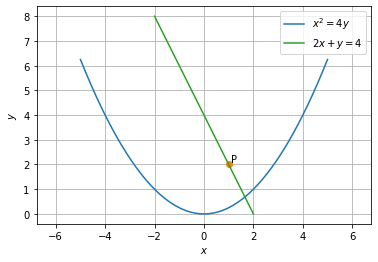
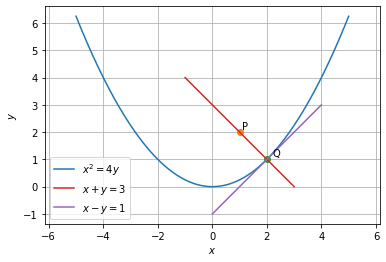
Add files via upload

diff --git a/ASSIGNMENT4/assignment4.py b/ASSIGNMENT4/assignment4.py
@@ -7,159 +7,30 @@ Original file is located at
     https://colab.research.google.com/drive/1ttz5ucjuVuoqsV9ZW3DMig3gA4-C8HLZ
 """
 
-# -*- coding: utf-8 -*-
-"""parabola.ipynb
-Automatically generated by Colaboratory.
-Original file is located at
-    https://colab.research.google.com/drive/1Rs-sQcmWrZ5ukWAQpfxal4mnMS3OC21p
-"""
-
-
-#Functions related to line
 import numpy as np
-
-
-def dir_vec(A,B):
-  return B-A
-
-def norm_vec(A,B):
-  return np.matmul(omat, dir_vec(A,B))
-
-#Generate line points
-def line_gen(A,B):
-  len =10
-  x_AB = np.zeros((2,len))
-  lam_1 = np.linspace(0,1,len)
-  for i in range(len):
-    temp1 = A + lam_1[i]*(B-A)
-    x_AB[:,i]= temp1.T
-  return x_AB
-
-#Generate line points
-def line_dir_pt(m,A,k1,k2):
-  len =10
-  x_AB = np.zeros((2,len))
-  lam_1 = np.linspace(k1,k2,len)
-  for i in range(len):
-    temp1 = A + lam_1[i]*m
-    x_AB[:,i]= temp1.T
-  return x_AB
-
-#Generate line points
-def line_gen(A,B):
-  len =10
-  x_AB = np.zeros((2,len))
-  lam_1 = np.linspace(0,1,len)
-  for i in range(len):
-    temp1 = A + lam_1[i]*(B-A)
-    x_AB[:,i]= temp1.T
-  return x_AB
-
-#Foot of the Altitude
-def alt_foot(A,B,C):
-  m = B-C
-  n = np.matmul(omat,m) 
-  N=np.vstack((m,n))
-  p = np.zeros(2)
-  p[0] = m@A 
-  p[1] = n@B
-  #Intersection
-  P=np.linalg.inv(N.T)@p
-  return P
-
-#Radius and centre of the circumcircle
-#of triangle ABC
-def ccircle(A,B,C):
-  p = np.zeros(2)
-  n1 = dir_vec(B,A)
-  p[0] = 0.5*(np.linalg.norm(A)**2-np.linalg.norm(B)**2)
-  n2 = dir_vec(C,B)
-  p[1] = 0.5*(np.linalg.norm(B)**2-np.linalg.norm(C)**2)
-  #Intersection
-  N=np.vstack((n1,n2))
-  O=np.linalg.inv(N)@p
-  r = np.linalg.norm(A -O)
-  return O,r
-
-#Radius and centre of the incircle
-#of triangle ABC
-def icentre(A,B,C,k1,k2):
-  p = np.zeros(2)
-  t = norm_vec(B,C)
-  n1 = t/np.linalg.norm(t)
-  t = norm_vec(C,A)
-  n2 = t/np.linalg.norm(t)
-  t = norm_vec(A,B)
-  n3 = t/np.linalg.norm(t)
-  p[0] = n1@B- k1*n2@C
-  p[1] = n2@C- k2*n3@A
-  N=np.vstack((n1-k1*n2,n2-k2*n3))
-  I=np.matmul(np.linalg.inv(N),p)
-  r = n1@(I-B)
-  #Intersection
-  return I,r
-
-dvec = np.array([-1,1]) 
-#Orthogonal matrix
-omat = np.array([[0,1],[-1,0]])
-
-#Parabola for quadforms 2.45
-#Code by B.ANUSHA
-#Jun 12, 2021
-
-
- #Program to plot  a parabola
-import numpy as np
-import math
 import matplotlib.pyplot as plt
-from numpy import linalg as LA
+import math
 
 #if using termux
 import subprocess
 import shlex
 #end if
 
-
-#setting up plot
-fig = plt.figure()
-ax = fig.add_subplot(111, aspect='equal')
-
-len = 50
-
-#Standard parabola
 x = np.linspace(-5, 5, 1000)
-x1 = np.linspace(-2, 2, 1000) 
+x1 = np.linspace(-1, 3, 1000) 
+x2 = np.linspace(0, 4, 1000)
 y = x*x/4.0
-y1 = 4 - 2*x1
-
-#Given parabola parameters
-V = np.array(([1,0],[0,0]))
-u = np.array([0,-2])
-F = 0
-
-#Affine transformation
-g = np.array([0,1])
-vcm = g-u
-vcp = g+u
-A = np.vstack((V,vcp.T))
-b = np.append(vcm,-F)
-c = LA.lstsq(A,b,rcond=None)[0]
-#c = np.array(c)
-c = c.reshape(2,1)
-print(c)
-
-#Generating the parabola
-x_par = y + c
-
-#Normal
-p = np.array([1,2])
-m = np.array(([-2,-1]))
-
-#Plotting parabola
+y1 = 3 - x1
+y2 = x2 - 1
+p = np.array([1, 2])
+q = np.array([2, 1])
 plt.plot(x, y, '-', label='$x^2 = 4y$')
 plt.plot(p[0], p[1], 'o')
 plt.text(p[0] + 0.1, p[1] + 0.1, 'P')
-plt.plot(x1, y1, '-', label='$2x + y = 4$')
+plt.plot(q[0], q[1], 'o')
+plt.text(q[0] + 0.2, q[1] + 0.1, 'Q')
+plt.plot(x1, y1, '-', label='$x + y = 3$')
+plt.plot(x2, y2, '-', label='$x - y = 1$')
 plt.xlabel('$x$')
 plt.ylabel('$y$')
 plt.legend(loc='best')

diff --git a/ASSIGNMENT4/ASSIGNMENT4.tex b/ASSIGNMENT4/ASSIGNMENT4.tex
@@ -187,7 +187,7 @@ Where,
 \vec{D} &= \myvec{\lambda_1 & 0 \\ 0 & \lambda_2} =\myvec{0 & 0 \\ 0 & 1} 
 \end{align}
 To find the vertex of the parabola ,
-\begin{align} \myvec{\vec{u}+\kappa\vec{p_1^T}\\\vec{V} }\vec{c} &= \myvec{\vec{-f}\\\kappa \vec{p_1} -\vec{u}}
+\begin{align} \myvec{\vec{u^T}+\kappa\vec{p_1^T}\\\vec{V} }\vec{c} &= \myvec{\vec{-f}\\\kappa \vec{p_1} -\vec{u}}
 \\
 \text{where, }  \kappa = \vec{u^T}\vec{p_1} = -2
 \\
